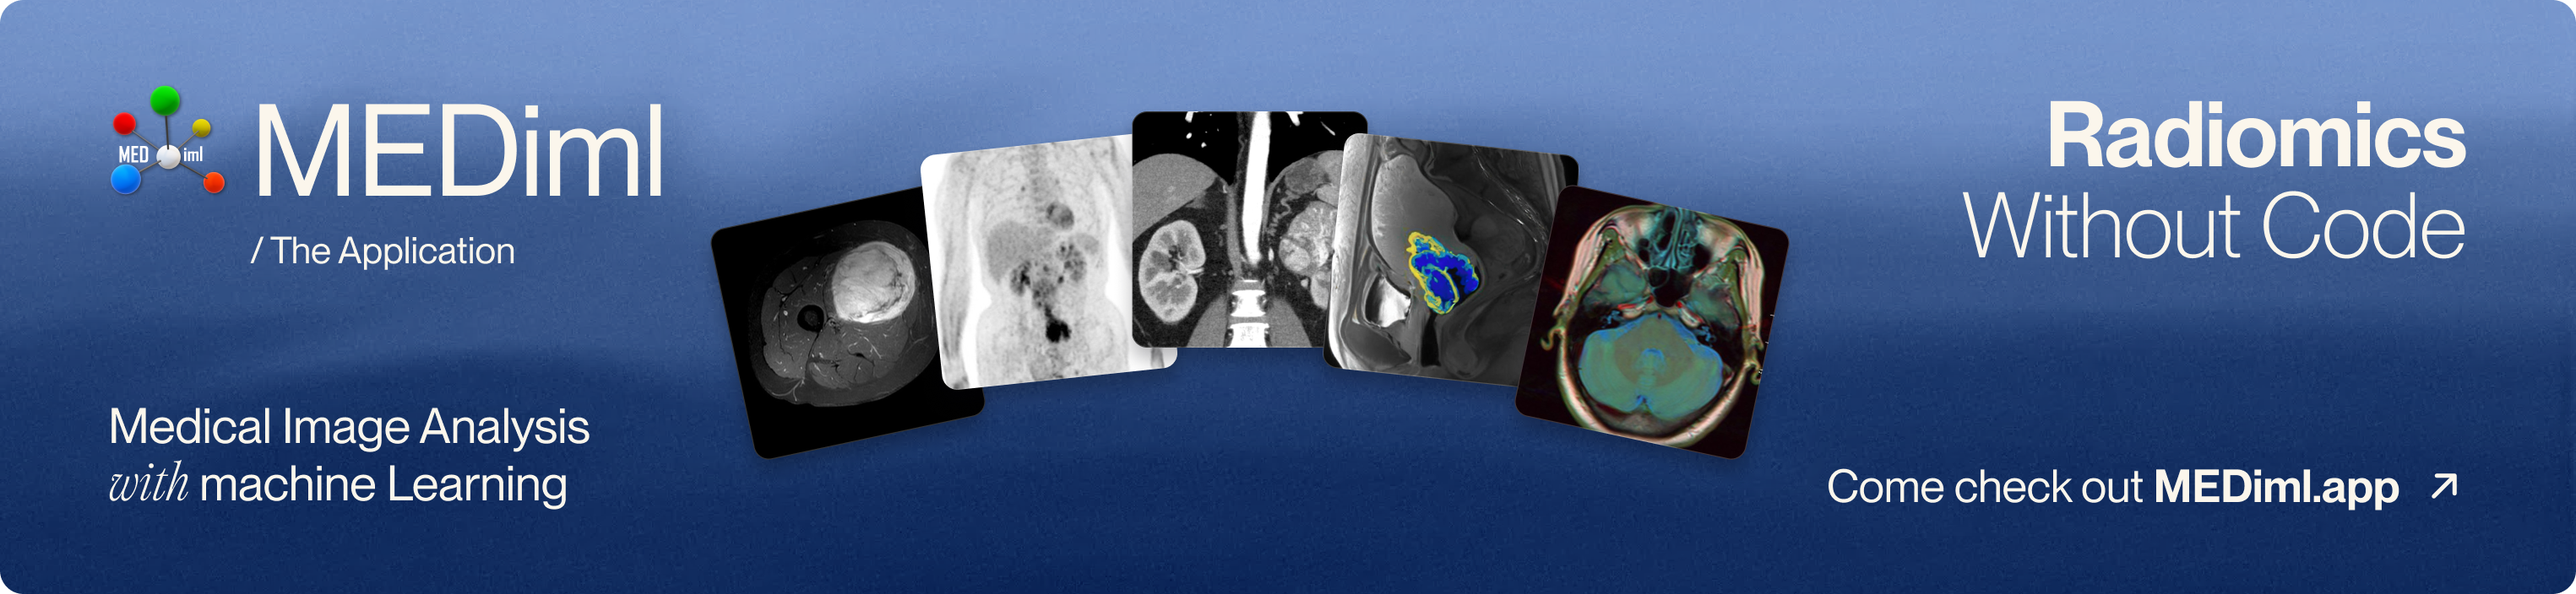
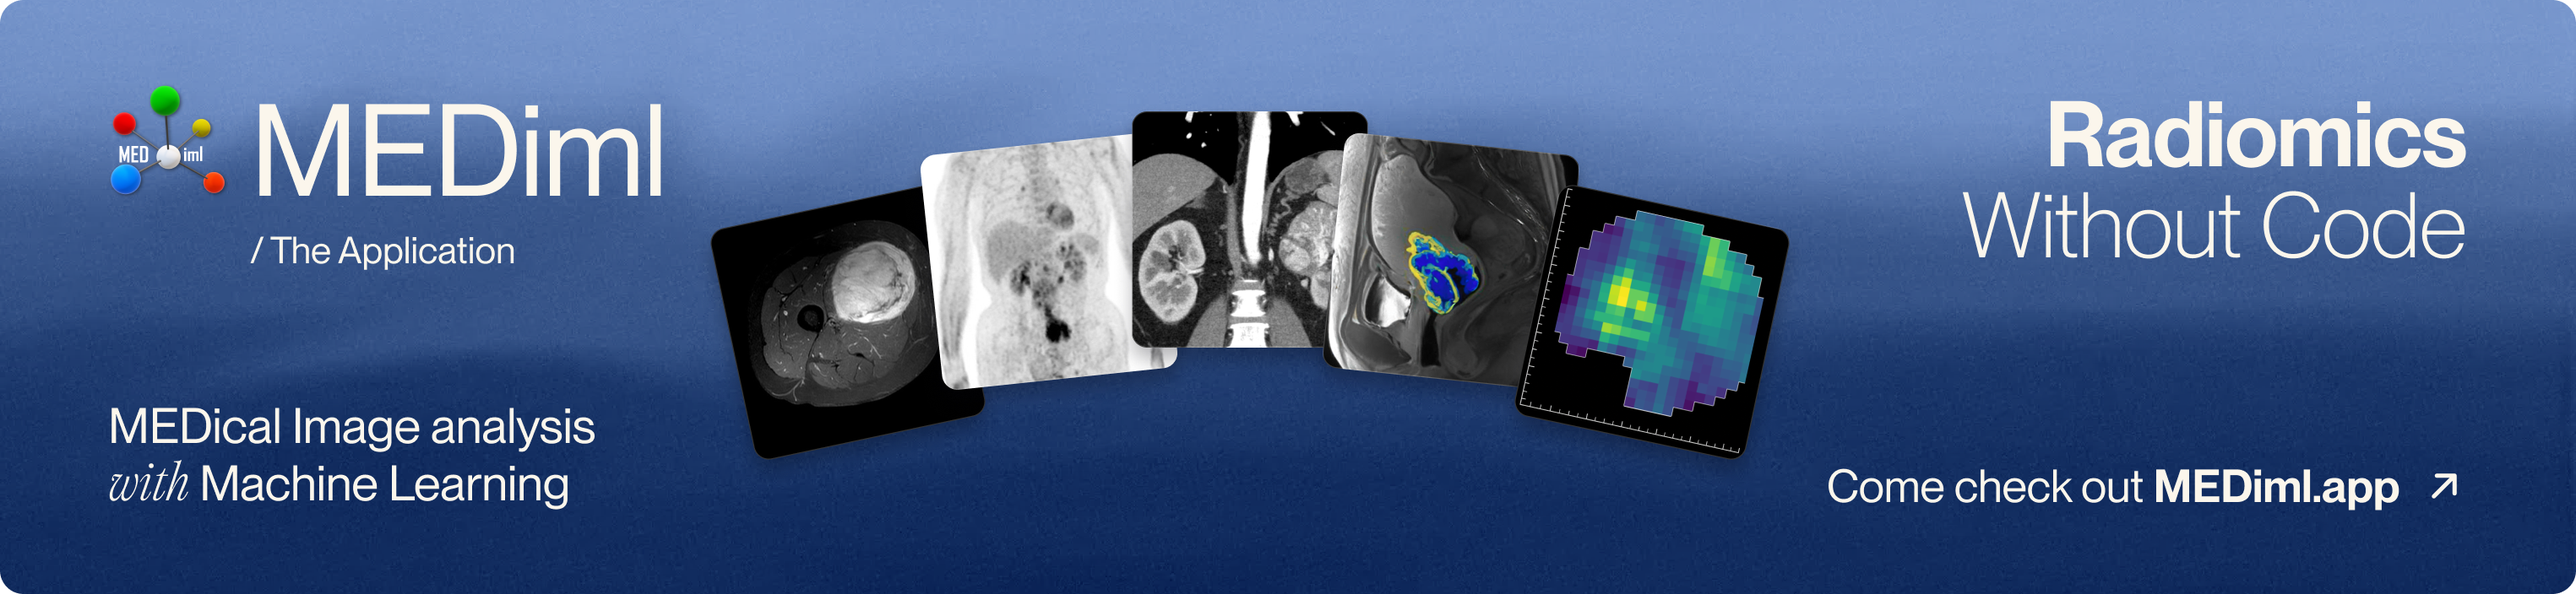
docs: standardise MEDiml name in README (Thanks @mvallieres!)

Changed region(s): [[0.5918, 0.3438, 0.6852, 0.75], [0.0623, 0.6875, 0.2492, 0.75], [0.0623, 0.7812, 0.218, 0.8438]]

diff --git a/README.md b/README.md
@@ -1,6 +1,6 @@
 <p align="center">
   <a href="https://mediml.app">
-    <img src=".github/assets/readme/MEDiml_Header.png" width="100%" alt="MEDiml: Medical Image Analysis with Machine Learning / The Application">
+    <img src=".github/assets/readme/MEDiml_Header.png" width="100%" alt="MEDical Image analysis with Machine Learning (MEDiml) / The Application">
   </a>
 </p>
 
@@ -187,7 +187,7 @@ If you use MEDiml in your research, please cite it using:
 
 ```bibtex
 @misc{loutfi2026mediml,
-  title         = {Medical Image Analysis with Machine Learning ({MEDiml}): Strategies for Simpler Radiomics},
+  title         = {{MEDical Image analysis with Machine Learning (MEDiml)}: Strategies for Simpler Radiomics},
   author        = {Ait Lhaj Loutfi, Mahdi and others},
   year          = {2026},
   eprint        = {2610.37715},
